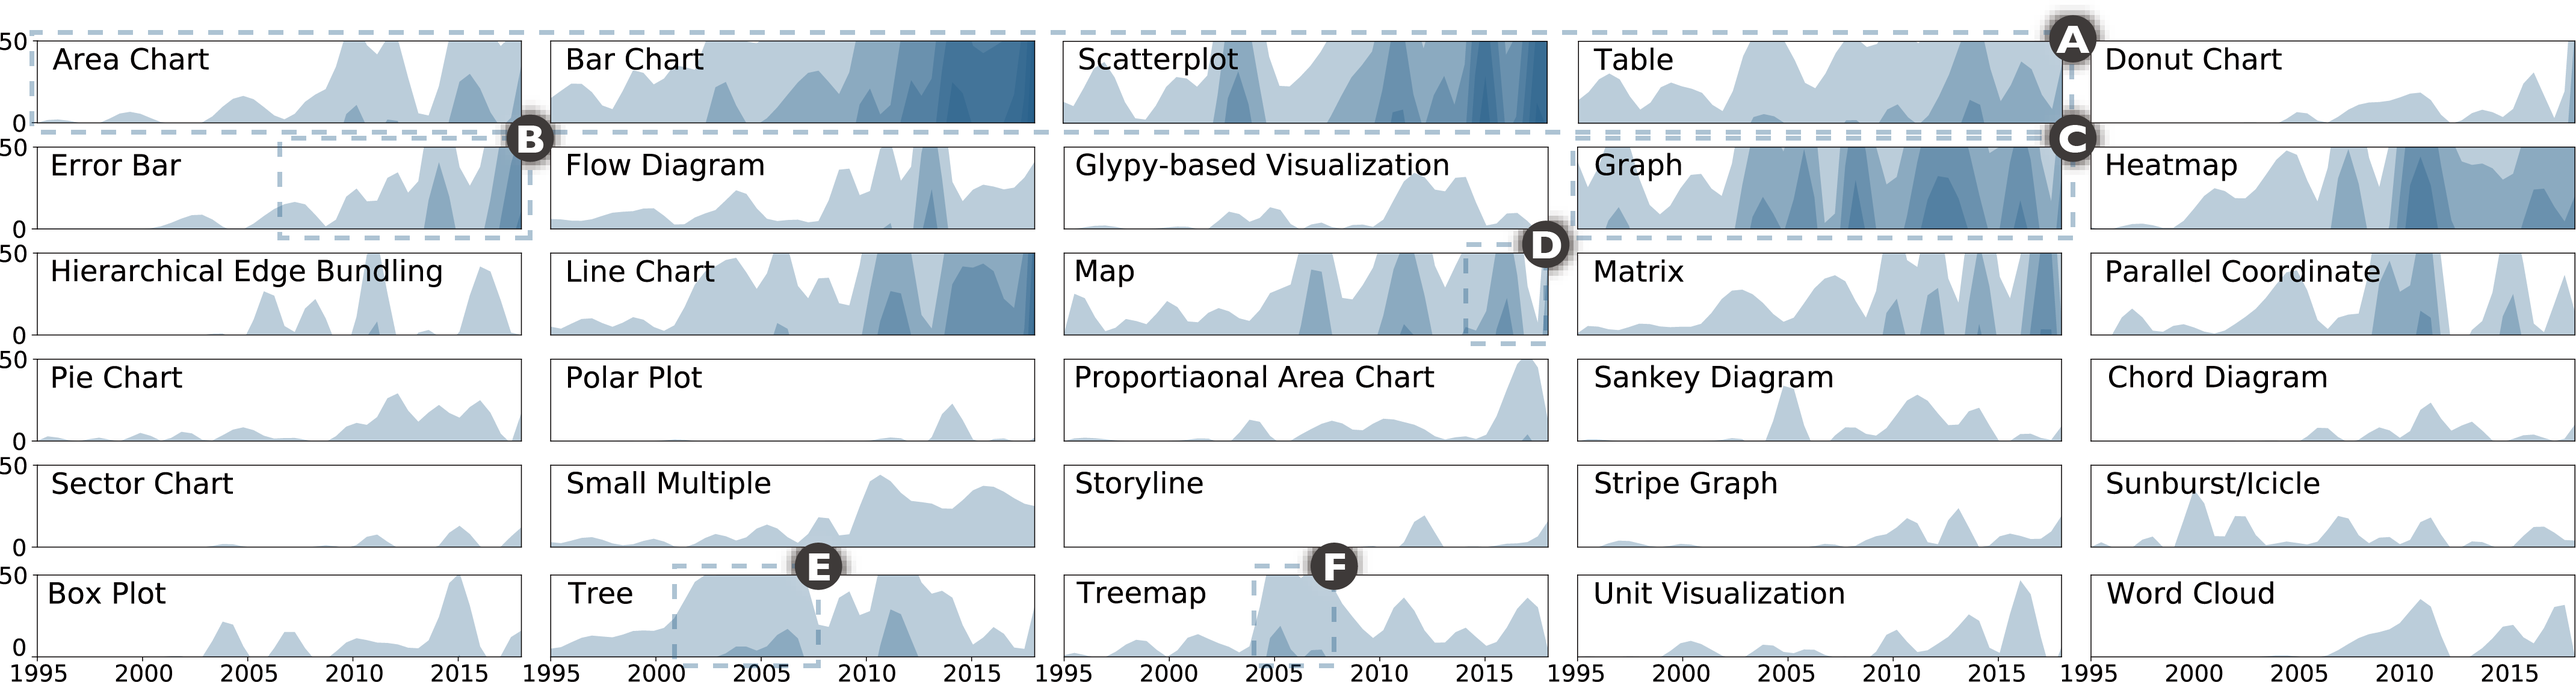
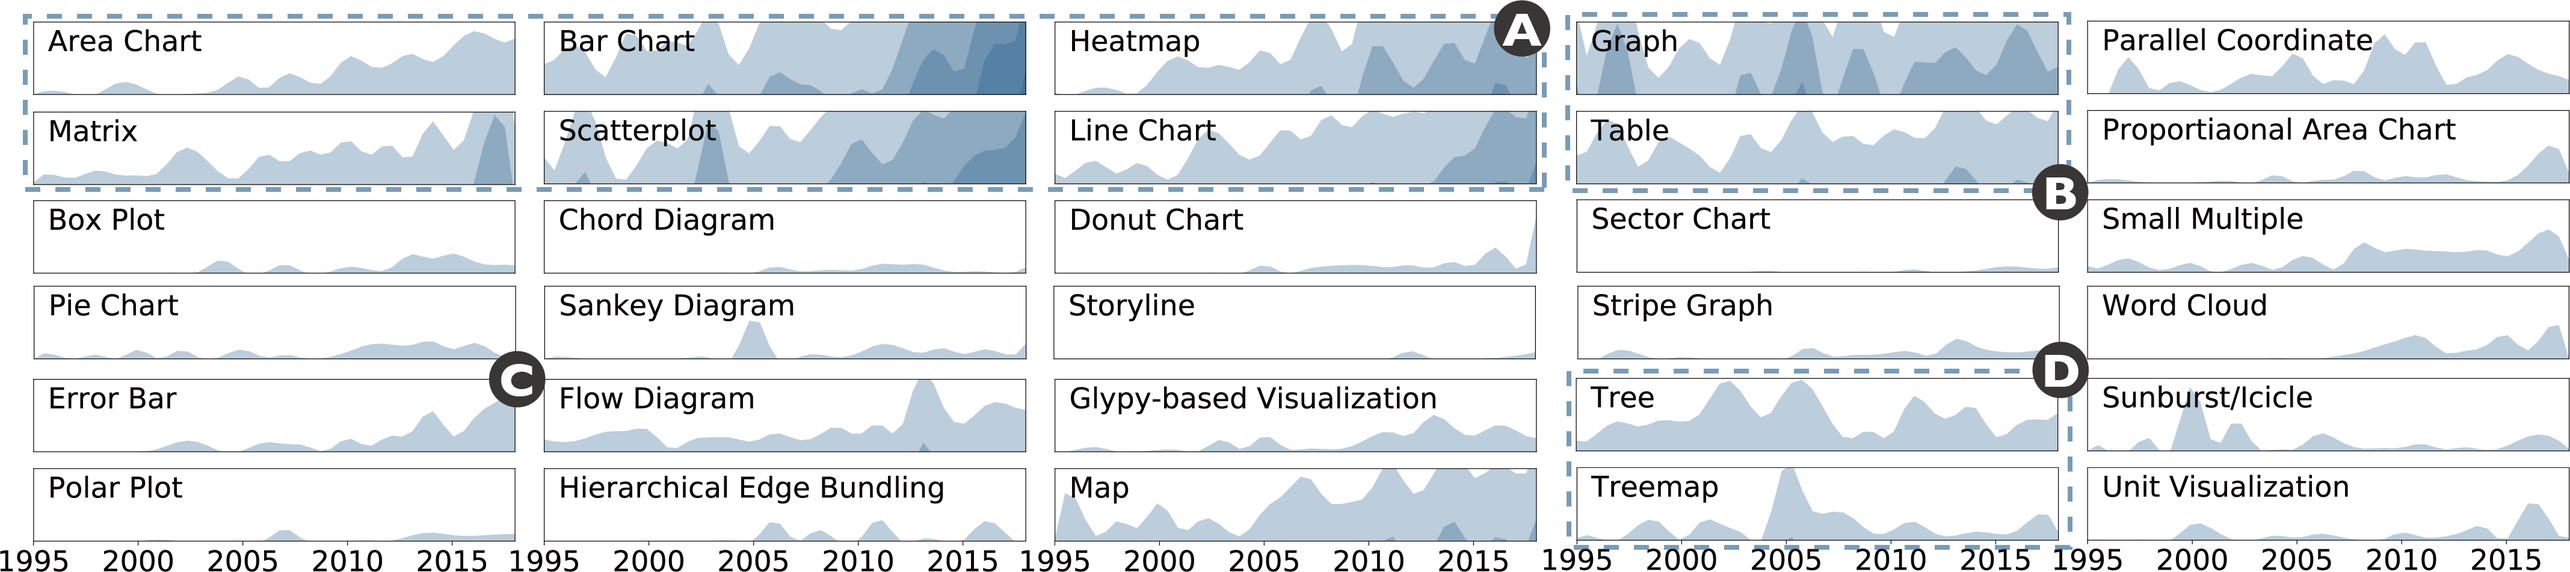
new version

diff --git a/index.html b/index.html
@@ -70,7 +70,10 @@
                               <a class="nav-link" href="#">VisImages</a>
                            </li>
                            <li class="nav-item2">
-                              <a class="nav-link2" href="https://github.com/VisImages/data">Download</a>
+                              <a class="nav-link" href="http://3.16.54.204:3000">Explorer</a>
+                           </li>
+                           <li class="nav-item2">
+                              <a class="nav-link" href="https://github.com/VisImages/data">Download</a>
                            </li>
                         </ul>
                      </div>
@@ -98,10 +101,9 @@
                      <div class="row d_flex">
                         <div class="col-md-6">
                            <div class="text-bg">
-                              <h1> VisImages: Images in <br>Visualization Publications</h1>
-                              <p style="text-align: justify;">We aim to deliver a high-quality dataset with large scale
-                                 of visualization publication images and diverse categories of visualizations.</p>
-                              <a href="#p">Read the Paper</a>
+                              <h1> VisImages: A Corpus of Images from Visualization Publications</h1>
+                              <p style="text-align: justify;">In this paper, we build and make public an image dataset from visualization publications with comprehensive samples and rich annotations. </p>
+                              <a href="http://3.16.54.204:3000">Explore the images</a>
                            </div>
                         </div>
                         <div class="col-md-6">
@@ -122,7 +124,7 @@
                         <div class="col-md-6">
                            <div class="text-bg">
                               <h1> Pipeline</h1>
-                              <p>During the process, we adopt a series of measures, such as “gold standard,” majority voting, and sampling test, to ensure the data correctness.</p>
+                              <p>During the process, we adopt a series of measures, such as gold standard, majority voting, and sampling test, to ensure the data correctness.</p>
                               <a href="#Methodology">Read More</a>
                            </div>
                         </div>
@@ -199,7 +201,7 @@
                         <h2>Abstract</h2>
                         <!-- <div class="row"> -->
                         <p>
-                           Images in visualization publications contain rich information, such as novel visual designs, model details, and experiment results. Constructing such an image corpus can contribute to the community in many aspects, including literature analysis from the perspective of visual representations, empirical studies on visual memorability, and machine learning research for chart detection. This study presents VisImages, a high-quality and large-scale image corpus collected from visualization publications. VisImages contain fruitful and diverse annotations for each image, including captions, types of visual representations, and bounding boxes. First, we algorithmically extract the images associated with captions and manually correct the errors. Second, to categorize visualizations in publications, we extend and iteratively refine the existing taxonomy through a multi-round pilot study. Third, guided by this taxonomy, we invite senior visualization practitioners to annotate visual representations that appear in each image. In this process, we borrow techniques such as “gold standards” and majority voting for quality control. Finally, we recruit the crowd to draw bounding boxes for visual representations in the images. The resulting corpus contains 35,096 annotated visualizations from 12,267 images with 12,057 captions in 1397 papers from VAST and InfoVis. We demonstrate the usefulness of VisImages through the following four use cases: 1) analysis of color usage in VAST and InfoVis papers across years, 2) discussion of the researcher preference on visualization types, 3) spatial distribution analysis of visualizations in visual analytic systems, and 4) training visualization detection models.
+                           Images in visualization publications contain rich information, e.g., novel visualization designs and common combinations of visualizations. A systematic collection of these images can contribute to the community in many aspects, such as literature analysis and automated tasks for visualization. In this paper, we build and make public a dataset, VisImages, which collects 12,267 images with captions from 1,397 papers in IEEE InfoVis and VAST. Based on a refined taxonomy for visualizations in publications, the dataset includes 35,096 annotated visualizations, as well as their positions. We demonstrate the usefulness of VisImages through three use cases: 1) exploring and analyzing the evolution of visualizations with VisImages Explorer, 2) training and benchmarking models for visualization classification, and 3) localizing and recognizing visualizations in the images automatically.
                         </p>
                         <!-- </div> -->
                         <!-- <div style="height:70px;"></div> -->
@@ -234,16 +236,13 @@
                   </div>
                   <div class="col-md-9">
                      <div id="serv_hover" class="sub_METHODOLOGY_box2">
-                        <p>In this paper, we focus on 2D static visualizations rather than photos, comics, and 3D
-                           renderings.
-                           Therefore, we collected the images from VAST (IEEE Conference on Visual Analytics Science &
-                           Technology) and InfoVis (IEEE Conference on Information Visualization), and excluded SciVis
-                           (IEEE Conference on Scientific Visualization), where a large amount of 3D renderings exist.
+                        <p>
+                           In this study, we focused on 2D static visualizations and collected the images from VAST (IEEE Conference on Visual Analytics Science & Technology) and InfoVis (IEEE Conference on Information Visualization). We excluded SciVis (IEEE Conference on Scientific Visualization) papers since these papers generally comprise a large number of images depicting the results of 3D rendering, which are beyond the scope of our paper. 
                         </p>
 
                         <p>We borrowed a paper list from vispubdata.org, which has provided the title and digital object
                            identifier (DOI) of IEEE VIS papers. The vispubdata.org has assigned each paper a label among
-                           <i>Vis</i>, <i>VAST</i>, <i>InfoVis</i>, and <i>SciVis</i>. We selected the papers with
+                           <i>VIS</i>, <i>VAST</i>, <i>InfoVis</i>, and <i>SciVis</i>. We selected the papers with
                            the label of <i>VAST</i> and <i>InfoVis</i>.
                            <br>In total, we have processed <strong><span style="color:#fbb03b;">1397</span></strong>
                            papers in VAST and InfoVis from <strong><span style="color:#fbb03b;">1996</span></strong> to
@@ -417,31 +416,24 @@
                   <div id="serv_hover" class="sub_METHODOLOGY_box2">
                      <div class="col-md-12" style="margin-left: auto;margin-right: auto;">
                         <figure><img src="images/fig6.png" alt="#" /></figure>
-                     <p> To analyze the evoluation of each visualization type, we counted the bounding box number of
-                        each visualization type and visualized the distribution with horizon charts.
-                        The horizon charts were vertically aligned according to years, and horizontally aligned with a
-                        same height of 50.
-                        The darker the color, the larger the number of visualization.</p>
+                     <p> To analyze the evoluation of each visualization type, we counted the average number of the bounding boxes of each visualization type in the paper and visualized the distribution with horizon charts.
+                     The horizon charts were vertically aligned according to years, and horizontally aligned with a same height of 2. The darker the color, the larger the average number of the visualization.</p>
                      </div>
                   </div>
                </div>
-                  <div class="sub_METHODOLOGY_box2 d_flex">
-                     <div class="col-md-6">
-                        <div class="fig7">
-                           <figure><img src="images/fig7.png" alt="#" /></figure>
-                        </div>
+               <div class="row">
+                  <div id="serv_hover" class="sub_METHODOLOGY_box2">
+                     <div class="col-md-12">
+                        <figure><img src="images/fig7.png" alt="#" /></figure>
+                        <p> To measure the differences between visualization subtypes, we borrow the idea of confusion matrix from the machine learning field to revisit our taxonomy.
+                           The confusion matrix describes how easily people get confused about two visualization subtypes in the course of annotation. Specifically, for two subtypes a and b, we first counted the number of images that were annotated with visualization a or b in VisImages.
+                           We examine their raw annotation data during the process of visualization type annotation, where three annotators labelled all the possible visualization subtypes in the images and the subtypes selected by at least two annotators were finally accepted. That is, there exist examples which were not unanimously annotated as a subtype, indicating an inconsistency among the annotators. We model this inconsistency as confusion between visualization subtypes. 
+                           Therefore, the confusion score between subtypes a and b was calculated as follows:
+                           $$Score_{a,b}=1 - P(a\in\mathbb{S}\wedge b\in\mathbb{S}|a\in\mathbb{C}\wedge b\in\mathbb{C}),$$
+                           where \(\mathbb{C}\) and \(\mathbb{S}\) represent the set of selected types before and after the majority voting, respectively. </p>
                      </div>
-                     <!-- <div class="titlepage"> -->
-                     <div class="col-md-6">
-                        <p>We borrow the idea of confusion matrix to revisit our taxonomy and
-                           analyze the confusion between different subtypes. We define the confusion score between subtype a and subtype b based on the intuition.
-                           Taking donut chart and pie chart as an example, a donut chart might be recognized as a pie chart mistakenly in some cases. Therefore, the two subtypes tend to be selected by three different participants during annotation, and the majority voting will keep one and reject the other. To conclude, if a and b tend to be confused with each other, the possibility that a and b are selected at the same time but one is rejected is high. We define the confusion score based on the above observation:
-                           $$Score_{a,b}=P((a\in\mathbb{S}\wedge b\in\mathbb{E})\vee(b\in\mathbb{S}\wedge a\in\mathbb{E})|a\in\mathbb{S}\vee b\in\mathbb{S}),$$ where \(a\) and \(b\) are two different visualization types, and the \(\mathbb{S}\) and \(\mathbb{E}\) represent the set of selected types and the set of rejected types after majority voting, respectively.
-                        </p>
-                     </div>
-                     
-                     <!-- </div> -->
-                  
+                  </div>
+               </div>
                </div>
             </div>
          </div>
@@ -455,7 +447,7 @@
                <div class="row">
                   <div class="col-md-12">
                      <div class="titlepage">
-                        <h2>Usage Scenarios</h2>
+                        <h2>Use Cases</h2>
                         <!-- <a class="read_more" href="#">Read More</a> -->
                      </div>
                   </div>
@@ -466,49 +458,58 @@
          <div class="blog">
             <div class="container">
                <div class="row">
-                  <div class="col-md-6">
+                  <div class="col-md-12">
                      <div class="blog_box">
-                        <figure><img src="images/s1.png" alt="#" /></figure>
+                        <h3>VisImages Explorer for Exploring and Analyzing the Evolution of Visualizations</h3>
+                        <figure><img src="images/explorer.png" alt="#" /></figure>
+                        <p><br>VisImages Explorer. (A) is the search panel for keyword searching by the title and filtering by year, author, and conference. (B) is the image gallery displaying the images contained in the papers. (C) is the visualization streams showing the distribution of different visualizations across years. (D) is the caption clouds exhibiting the frequently occurring words in the captions of the filtered images. (E) and (F) show the visualization streams and caption clouds after selecting ''VAST" in the search panel, respectively. </br>
+                        </p>
+                     </div>
+                  </div><div class="col-md-14">
+                     <div class="blog_box">
+                        <h3>VisImages Classification</h3>
+                        <figure ><img src="images/classfication.png" width="500" height="600" alt="#"/></figure>
+                        <p><br>In this case, we show how VisImages can benefit visualization classification which has been adopted in many scenarios, such as visualization reconstruction and empirical studies. We first report the performance of the models on classifying visualizations with VisImages on two levels, namely, the category level (V-12) and the subtype level (V-30). We then compare VisImages with existing datasets to demonstrate the advantage of VisImages for visualization classification. Since a visualization can have multiple classes, we use both top-1 accuracy and top-3 accuracy as evaluation metrics.</br>
+                        </p>
+                     </div>
+                  </div><div class="col-md-12">
+                     <div class="blog_box">
+                        <figure><img src="images/case4_single.png" alt="#" /></figure>
+                        <h3>Visualization Detection on VisImages</h3>
+                        <p><br>Results of visualization detection with Faster R-CNN. (A) shows an example of table visualization. (B) and (C) show the predicted examples of the visualizations composed of multiple visualization types. (D) presents the cases of heatmaps and bar charts. (D1) and (D2) are recognized as heatmaps. (D3) shows the successfully recognized bar charts, and (D4) indicates the position of the bar charts that are proposed to predict but fail.</br>
+                        </p>
+                     </div>
+                  </div>
+                  <div class="col-md-12">
+                     <div class="blog_box">
                         <h3>Evolution of Color Used in VAST and InfoVis</h3>
-                        <p>The images are represented in <span style="color:#fbb03b;">CIELAB </span>color space, in
+                        <figure><img src="images/s1.png" alt="#" /></figure>
+                        <p><br>The images are represented in <span style="color:#fbb03b;">CIELAB </span>color space, in
                            which the color change is compatible to the human perception change.
-                           <br>The <span style="color:#fbb03b;">CIELAB </span>color space is composed of <span
+                           The <span style="color:#fbb03b;">CIELAB </span>color space is composed of <span
                               style="color:#fbb03b;">3 </span>dimensions. We divide each dimension into five bins and
                            obtain a discrete color space with <span style="color:#fbb03b;">5×5×5 = 125</span> color
-                           values.
-                           <br>For the images, we count the pixel number of each color value. </p>
+                           values.For the images, we count the pixel number of each color value. </br>
+                        </p>
                      </div>
                   </div>
 
-                  <div class="col-md-6">
+                  <div class="col-md-12">
                      <div class="blog_box">
-                        <figure><img src="images/s2.png" alt="#" /></figure>
                         <h3>Visualization Types Preference of the Top Researchers</h3>
-                        <p>We explore the visualization preference of the top researchers in visualization community.
-                           <br>Here, different colors represent different types of visualization.
-                           <br>And researchers' preferences are related to their research topics.</p>
+                        <figure><img src="images/s2.png" alt="#" /></figure>
+                        <p><br>We explore the visualization preference of the top researchers in visualization community.
+                           Here, different colors represent different types of visualization. And researchers' preferences are related to their research topics.</br></p>
                      </div>
                   </div>
-                  <div class="col-md-6">
+                  <div class="col-md-12">
                      <div class="blog_box">
-                        <figure><img src="images/s3.png" alt="#" /></figure>
                         <h3>Spatial Distribution of Visualizations in VA Systems</h3>
-                        <p> <span style="color:#fbb03b;">Firstly</span>, retrieve the images from the captions with the keywords “interface” and “system overview,” and build a caption classification dataset with two categories, i.e., "interface" and "others."
-                           <br><span style="color:#fbb03b;">Secondly</span>, we adopt term frequency-inverse document frequency (TF-IDF) to train a support vector
+                        <figure><img src="images/s3.png" alt="#" /></figure>
+                        <p><br><span style="color:#fbb03b;">Firstly</span>, retrieve the images from the captions with the keywords “interface” and “system overview,” and build a caption classification dataset with two categories, i.e., "interface" and "others."
+                           <span style="color:#fbb03b;">Secondly</span>, we adopt term frequency-inverse document frequency (TF-IDF) to train a support vector
                            machine (SVM) to classify the captions of “interface.”
-                           <br><span style="color:#fbb03b;">Finally</span>, plot the bounding boxes of each visualization types on the canvases and obtain the heatmaps.</p>
-                     </div>
-                  </div>
-                  <div class="col-md-6">
-                     <div class="blog_box">
-                        <figure><img src="images/s4.png" alt="#" /></figure>
-                        <h3>Faster R-CNN on VisImages
-                           <br> </h3>
-                        <p>To exhibit how VisImages can contribute to machine learning tasks, we <span style="color:#fbb03b;">train</span> an
-                           visualization detection model.
-                           <br>We perform Faster R-CNN on each subtype and adopt <span style="color:#fbb03b;">cross-subtype merging</span> to obtain multiple labels for each bounding box.
-                           <br> The false cases reveal a potential that researchers from machine learning and visualization work jointly to adapt the machine learning models for visualization scenarios.
-                        </p>
+                           <span style="color:#fbb03b;">Finally</span>, plot the bounding boxes of each visualization types on the canvases and obtain the heatmaps.</br></p>
                      </div>
                   </div>
 

diff --git a/css/style.css b/css/style.css
@@ -998,8 +998,8 @@ margin:0 -100px 0 ;
 }
 
 .blog .blog_box figure img {
-     width: 80%;
-     height: 250px;
+     width: 100%;
+     /* height: 320px; */
      box-shadow: 3px 3px 10px 0.5px rgba(0, 0, 0, 0.1);
 }
 
